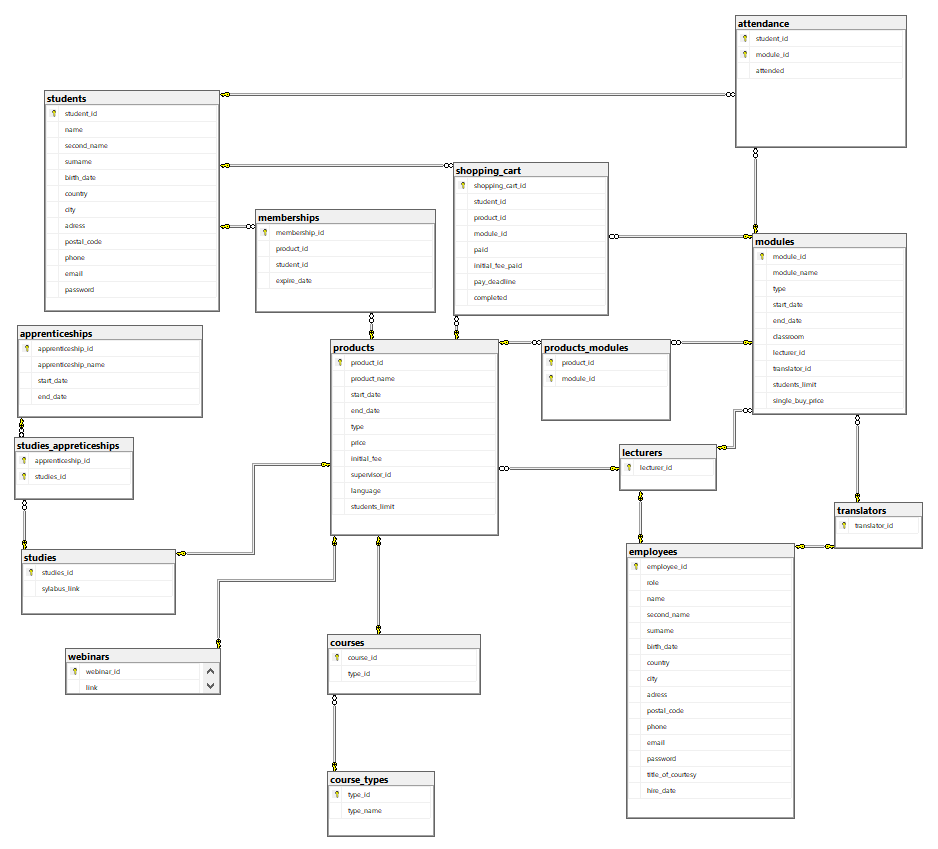
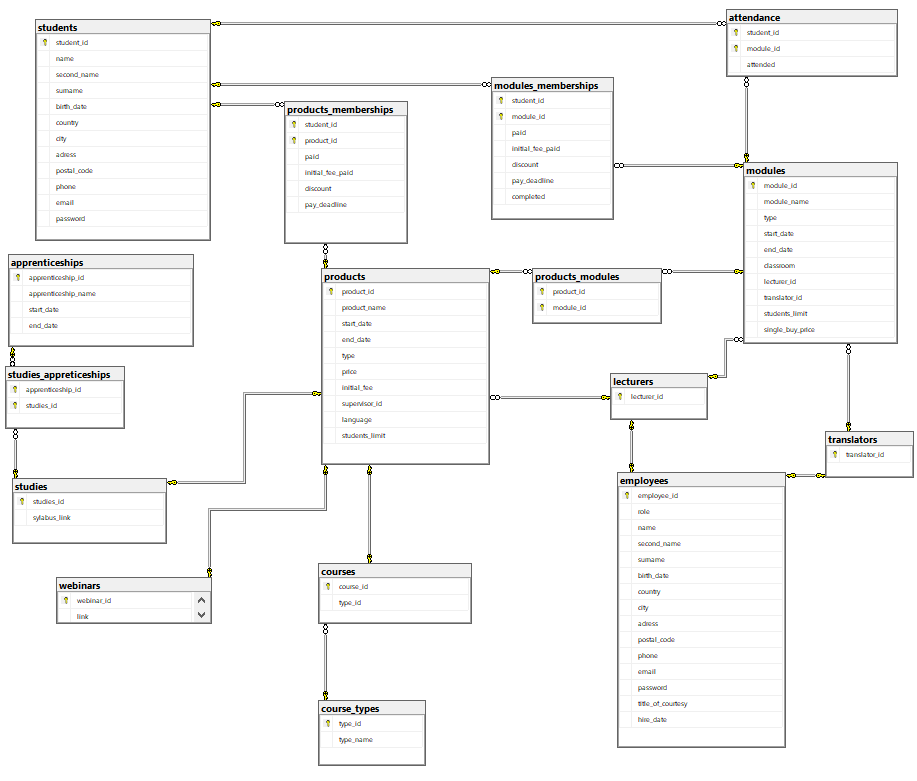
generated code for products_memberships and modules_memberships, updated diagram

diff --git a/README.md b/README.md
@@ -437,47 +437,44 @@ GO
 
 ```
 
-11. Tabela “memberships”
+11. Tabela “modules_memberships”
 
-Tabela przechowująca kursy należące do studentów wraz z datą wygaśnięcia przynależności.
-
-- membership_id - numer id każdej przynależności (PK)
-- product_id - numer id produktu (FK)
-- student_id - numer id studenta (FK)
-- expire_date - data wygaśnięcia przynależności
+TUTAJ OPIS DLA MODULES_MEMBERSHIPS,
+wygenerowany kod jest juz ok
 
 ```sql
-CREATE TABLE [dbo].[memberships](
-	[membership_id] [int] NOT NULL,
-	[product_id] [int] NOT NULL,
+CREATE TABLE [dbo].[modules_memberships](
 	[student_id] [int] NOT NULL,
-	[expire_date] [datetime] NULL,
- CONSTRAINT [PK_memberships] PRIMARY KEY CLUSTERED
+	[module_id] [int] NOT NULL,
+	[paid] [bit] NOT NULL,
+	[initial_fee_paid] [bit] NOT NULL,
+	[discount] [float] NOT NULL,
+	[pay_deadline] [datetime] NOT NULL,
+	[completed] [bit] NOT NULL,
+ CONSTRAINT [PK_shopping_cart_1] PRIMARY KEY CLUSTERED
 (
-	[membership_id] ASC
-)
-) ON [PRIMARY]
+	[student_id] ASC,
+	[module_id] ASC
+)) ON [PRIMARY]
 GO
 
-ALTER TABLE [dbo].[memberships]  WITH CHECK ADD
-CONSTRAINT [FK_memberships_products] FOREIGN KEY([product_id])
-REFERENCES [dbo].[products] ([product_id])
+ALTER TABLE [dbo].[modules_memberships]  WITH CHECK ADD
+CONSTRAINT [FK_modules_memberships_modules] FOREIGN KEY([module_id])
+REFERENCES [dbo].[modules] ([module_id])
 GO
 
-ALTER TABLE [dbo].[memberships] CHECK
-CONSTRAINT [FK_memberships_products]
+ALTER TABLE [dbo].[modules_memberships] CHECK
+CONSTRAINT [FK_modules_memberships_modules]
 GO
 
-ALTER TABLE [dbo].[memberships]  WITH CHECK ADD
-CONSTRAINT [FK_memberships_students] FOREIGN KEY([student_id])
+ALTER TABLE [dbo].[modules_memberships]  WITH CHECK ADD
+CONSTRAINT [FK_shopping_cart_students] FOREIGN KEY([student_id])
 REFERENCES [dbo].[students] ([student_id])
 GO
 
-ALTER TABLE [dbo].[memberships] CHECK
-CONSTRAINT [FK_memberships_students]
+ALTER TABLE [dbo].[modules_memberships] CHECK
+CONSTRAINT [FK_shopping_cart_students]
 GO
-
-
 ```
 
 12. Tabela “attendance”
@@ -521,61 +518,42 @@ GO
 
 ```
 
-13. Tabela “shopping_cart”
+13. Tabela “products_memberships”
 
-Tabela przechowująca przedmioty oczekujące na płatność przez studenta wraz z informacjami o kwocie do opłacenia oraz terminie opłaty.
-
-- shopping_cart_id - numer id każdego koszyka (PK)
-- student_id - numer id student (FK)
-- product_id - numer id produntu zakupu (FK), może być pusty
-- module_id - numer id modułu do zakupu (FK), może być pusty
-- paid - informacja o tym czy zakup został opłacony
-- initial_fee_paid - informacja o tym czy zaliczka została wpłacona
-- pay_deadline - ostateczny termin opłaty
-- completed - informacja o statusie realizacji zamówienia
+TUTAJ OPIS DLA PRODUCTS_MEMBERSHIPS
+wygenerowany kod jest juz ok
 
 ```sql
-CREATE TABLE [dbo].[shopping_cart](
-	[shopping_cart_id] [int] NOT NULL,
+CREATE TABLE [dbo].[products_memberships](
 	[student_id] [int] NOT NULL,
-	[product_id] [int] NULL,
-	[module_id] [int] NULL,
+	[product_id] [int] NOT NULL,
 	[paid] [bit] NOT NULL,
 	[initial_fee_paid] [bit] NOT NULL,
+	[discount] [float] NOT NULL,
 	[pay_deadline] [datetime] NOT NULL,
-	[completed] [bit] NOT NULL,
- CONSTRAINT [PK_shopping_cart] PRIMARY KEY CLUSTERED
+ CONSTRAINT [PK_memberships_1] PRIMARY KEY CLUSTERED
 (
-	[shopping_cart_id] ASC
-)
-) ON [PRIMARY]
+	[student_id] ASC,
+	[product_id] ASC
+)) ON [PRIMARY]
 GO
 
-ALTER TABLE [dbo].[shopping_cart]  WITH CHECK ADD
-CONSTRAINT [FK_shopping_cart_modules] FOREIGN KEY([module_id])
-REFERENCES [dbo].[modules] ([module_id])
-GO
-
-ALTER TABLE [dbo].[shopping_cart] CHECK
-CONSTRAINT [FK_shopping_cart_modules]
-GO
-
-ALTER TABLE [dbo].[shopping_cart]  WITH CHECK ADD
-CONSTRAINT [FK_shopping_cart_products] FOREIGN KEY([product_id])
-REFERENCES [dbo].[products] ([product_id])
-GO
-
-ALTER TABLE [dbo].[shopping_cart] CHECK
-CONSTRAINT [FK_shopping_cart_products]
-GO
-
-ALTER TABLE [dbo].[shopping_cart]  WITH CHECK ADD
-CONSTRAINT [FK_shopping_cart_students] FOREIGN KEY([student_id])
+ALTER TABLE [dbo].[products_memberships]  WITH CHECK ADD
+CONSTRAINT [FK_memberships_students] FOREIGN KEY([student_id])
 REFERENCES [dbo].[students] ([student_id])
 GO
 
-ALTER TABLE [dbo].[shopping_cart] CHECK
-CONSTRAINT [FK_shopping_cart_students]
+ALTER TABLE [dbo].[products_memberships] CHECK
+CONSTRAINT [FK_memberships_students]
+GO
+
+ALTER TABLE [dbo].[products_memberships]  WITH CHECK ADD
+CONSTRAINT [FK_products_memberships_products] FOREIGN KEY([product_id])
+REFERENCES [dbo].[products] ([product_id])
+GO
+
+ALTER TABLE [dbo].[products_memberships] CHECK
+CONSTRAINT [FK_products_memberships_products]
 GO
 
 ```
